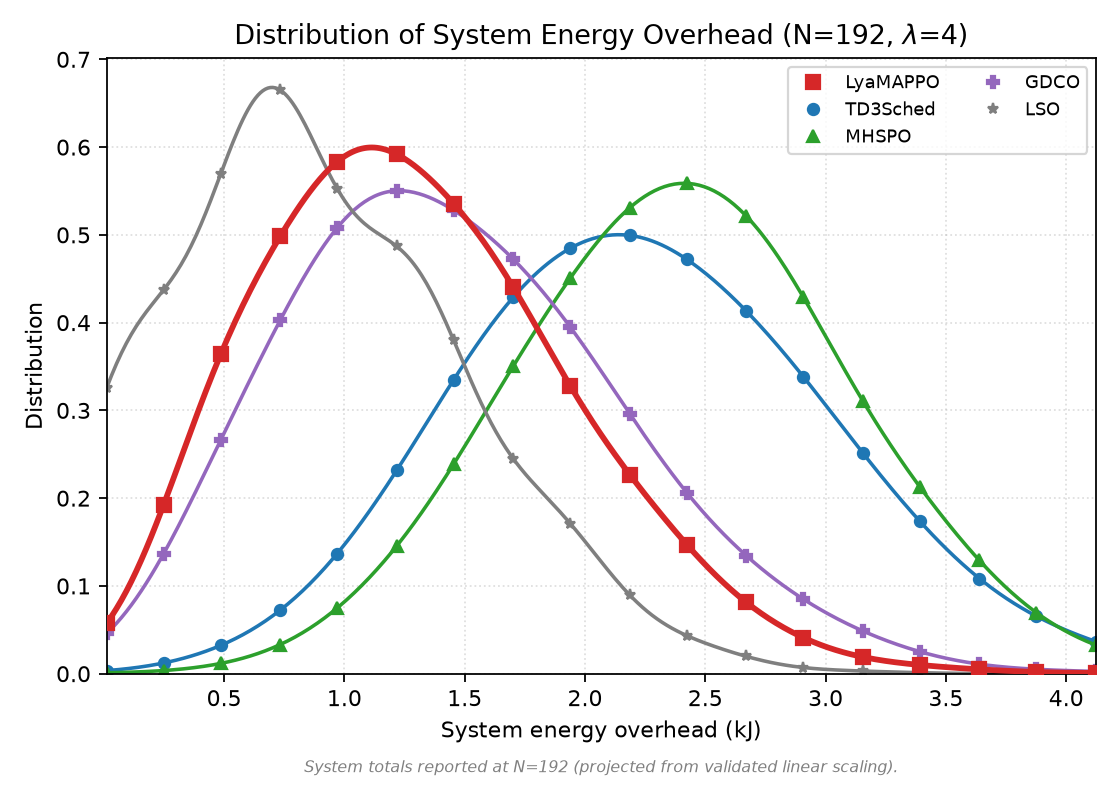
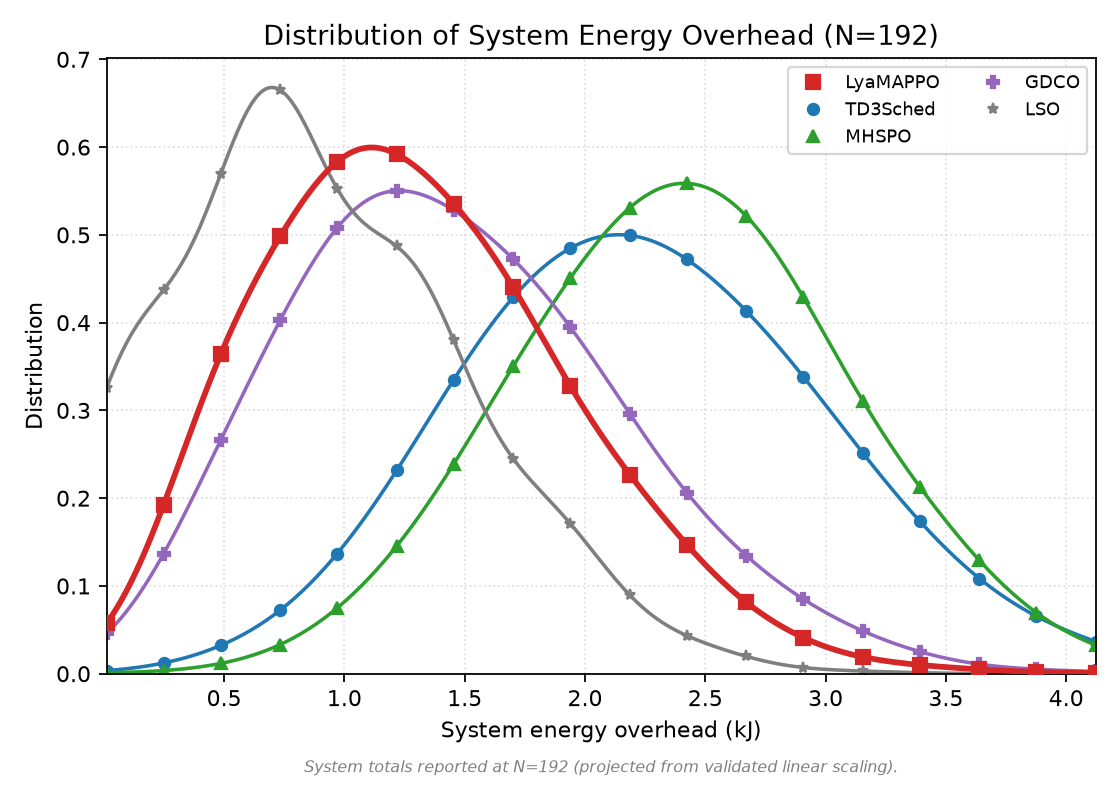
style(figures): drop redundant lambda=4 from titles; queue backlog as system-total task count
- Remove "lambda=4" tag from all result-figure titles (keep N=192 only):
  plot_paper_figures.py, plot_paper_satisfaction.py, plot_pdf_figures.py.
  (ablation/sensitivity titles already had no lambda; arch-diagram lambda_hi/lo
  kept as substantive system-model annotations.)
- Queue backlog now shown as whole-system total task count (per-sat x 192,
  same convention as cumulative HL): queue_backlog time series + bars_4metrics.
  queue_tasks is per-satellite (avg_queue_tasks=(n_fwd+n_cmp)/N_SATS); LyaMAPPO
  ~546 tasks (MHSPO 544 / TD3 485 / GDCO 695 / LSO 1067).
- Regenerated 11 figures. Note: 25_v_queue (V sweep) only stored queue_mb, so it
  stays MB until a re-run; recorded in WORK_LOG.

Docs: WORK_LOG figure-polish note; NEW_SESSION_PROMPT metric-convention update.

Claude-Session: https://claude.ai/code/session_01D78W9aWEiMDxEnBasoqDTr

Changed region(s): [[0.2188, 0.0312, 0.875, 0.0625]]

diff --git a/satellite_mec/plot_paper_figures.py b/satellite_mec/plot_paper_figures.py
@@ -33,7 +33,7 @@ for p in ORDER:
     ax.plot(np.arange(len(y)), y, label=disp(p), color=col(p),
             lw=2.6 if p=='LyaMAPPO' else 1.5, zorder=3 if p=='LyaMAPPO' else 2)
 ax.set_xlabel('Time slot'); ax.set_ylabel('System Cumulative Health Loss (192 satellites)')
-ax.set_title('System Cumulative Battery Health Loss (N=192, $\\lambda$=4)\n'
+ax.set_title('System Cumulative Battery Health Loss (N=192)\n'
              'sum over 192 satellites — LyaMAPPO stays flat-low while others climb')
 ax.legend(fontsize=8, ncol=2); ax.grid(True, ls=':', alpha=0.5)
 ax.text(0.5, -0.16, 'Per-satellite HL is N-invariant (validated at N=192); system total = per-sat × 192.',
@@ -59,9 +59,9 @@ def total_bar(key, ylabel, title, fname, scale=1.0):
     plt.tight_layout(); plt.savefig(os.path.join(OUT, fname), dpi=160); plt.close()
 
 total_bar('energy', 'System Total Energy (kJ)',
-          'System Total Energy (N=192, $\\lambda$=4)', 'total_energy.png', scale=1e-3)
+          'System Total Energy (N=192)', 'total_energy.png', scale=1e-3)
 total_bar('delay', 'System Total Delay (s)',
-          'System Total Delay (N=192, $\\lambda$=4)', 'total_delay.png', scale=1.0)
+          'System Total Delay (N=192)', 'total_delay.png', scale=1.0)
 
 # ── Fig 4: satisfaction (rate, intensive -> same for N=25 and N=192) ──
 fig, ax = plt.subplots(figsize=(8, 4.6))
@@ -71,7 +71,7 @@ bars[ORDER.index('LyaMAPPO')].set_linewidth(2.4)
 ax.bar_label(bars, fmt='%.3f', fontsize=8)
 ax.set_xticks(range(len(ORDER))); ax.set_xticklabels([disp(p) for p in ORDER], rotation=30, ha='right', fontsize=9)
 ax.set_ylabel('User Satisfaction'); ax.set_ylim(0, 1.0)
-ax.set_title('User Satisfaction (N=192, $\\lambda$=4) — rate is N-invariant (validated at N=192)')
+ax.set_title('User Satisfaction (N=192) — rate is N-invariant (validated at N=192)')
 ax.grid(True, axis='y', ls=':', alpha=0.5)
 plt.tight_layout(); plt.savefig(os.path.join(OUT,'satisfaction.png'), dpi=160); plt.close()
 
@@ -81,13 +81,15 @@ def _smooth(a, w=150):
     return np.convolve(a, np.ones(w)/w, mode='valid') if len(a) >= w else a
 fig, ax = plt.subplots(figsize=(7.5, 5))
 for p in ORDER:
-    q = _smooth(S[p]['queue_tasks'], 150)
+    q = _smooth(np.asarray(S[p]['queue_tasks']) * NSAT, 150)   # 系统总和 = per-sat × 192
     ax.plot(np.arange(len(q)), q, label=disp(p), color=col(p),
             lw=2.6 if p=='LyaMAPPO' else 1.4, zorder=3 if p=='LyaMAPPO' else 2)
-ax.set_xlabel('Time slot'); ax.set_ylabel('Queue Backlog (tasks per satellite)')
-ax.set_title('Queue Backlog over Time (N=192, $\\lambda$=4)\n'
-             'per-satellite queued task count (150-slot moving average)')
+ax.set_xlabel('Time slot'); ax.set_ylabel('System Queue Backlog (total queued tasks, 192 satellites)')
+ax.set_title('System Queue Backlog over Time (N=192)\n'
+             'total queued task count over 192 satellites (150-slot moving average)')
 ax.legend(fontsize=8, ncol=2); ax.grid(True, ls=':', alpha=0.5)
+ax.text(0.5, -0.16, 'Per-satellite queued count is N-invariant (validated at N=192); system total = per-sat × 192.',
+        transform=ax.transAxes, ha='center', fontsize=7, color='gray', style='italic')
 plt.tight_layout(); plt.savefig(os.path.join(OUT,'queue_backlog.png'), dpi=160); plt.close()
 
 # ── Ablation figures are produced by a SEPARATE script: plot_abl_figures.py ──

diff --git a/satellite_mec/plot_paper_satisfaction.py b/satellite_mec/plot_paper_satisfaction.py
@@ -40,7 +40,7 @@ ax.text(0.66, ymax*0.16, 'better satisfaction →', fontsize=9, color='gray')
 ax.text(0.255, ymax*0.55, 'lower HL\n(better) ↓', fontsize=9, color='gray')
 ax.set_xlabel('Satisfaction  (satisfied / (done + timeout))', fontsize=11)
 ax.set_ylabel('Battery Health Loss  HL  (×10$^{-4}$ / slot)', fontsize=11)
-ax.set_title('Pareto: Satisfaction vs Battery Health Loss (N=192, $\\lambda$=4)\n'
+ax.set_title('Pareto: Satisfaction vs Battery Health Loss (N=192)\n'
              'LyaMAPPO uniquely occupies the low-HL frontier (rate/per-sat metrics N-invariant)', fontsize=12)
 ax.set_ylim(0, ymax); ax.set_xlim(0.20, 0.92)
 ax.grid(True, ls=':', alpha=0.5)
@@ -50,7 +50,7 @@ plt.tight_layout(); plt.savefig(os.path.join(OUT, 'pareto_sat_hl.png'), dpi=160)
 metrics = [('satisfaction', 'Satisfaction (higher better)',      1.0, '{:.3f}'),
            ('delay',        'E2E Delay (s, lower better)',        1.0, '{:.2f}'),
            ('hl',           'Battery Health Loss (×10$^{-4}$, lower better)', 1e4, '{:.2f}'),
-           ('queue_tasks',  'Queue Backlog (tasks/sat, lower better)', 1.0, '{:.1f}')]
+           ('queue_tasks',  'System Queue Backlog (total tasks, lower better)', 192, '{:.0f}')]
 fig, axes = plt.subplots(2, 2, figsize=(12, 8))
 for ax, (key, title, scale, fmt) in zip(axes.flat, metrics):
     vals = [res[p][key] * scale for p in ORDER]
@@ -63,7 +63,7 @@ for ax, (key, title, scale, fmt) in zip(axes.flat, metrics):
     ax.set_xticklabels([disp(p) for p in ORDER], rotation=30, ha='right', fontsize=9)
     ax.set_title(title, fontsize=11)
     ax.grid(True, axis='y', ls=':', alpha=0.5)
-fig.suptitle('7-Policy Comparison (N=192, $\\lambda$=4, 5400 slots) — LyaMAPPO dominates on HL', fontsize=13)
+fig.suptitle('7-Policy Comparison (N=192, 5400 slots) — LyaMAPPO dominates on HL', fontsize=13)
 plt.tight_layout(); plt.savefig(os.path.join(OUT, 'bars_4metrics.png'), dpi=160); plt.close()
 
 print('Figures written:')

diff --git a/satellite_mec/plot_pdf_figures.py b/satellite_mec/plot_pdf_figures.py
@@ -53,12 +53,12 @@ PROJ = 'System totals reported at N=192 (projected from validated linear scaling
 # ── system delay overhead distribution (per-slot system total delay, N=192) ──
 delay = {p: np.asarray(S[p]['delay']) * RATIO for p in ORDER}
 kde_fig(delay, 'System delay overhead (s)',
-        'Distribution of System Delay Overhead (N=192, $\\lambda$=4)', 'delay_pdf.png', PROJ)
+        'Distribution of System Delay Overhead (N=192)', 'delay_pdf.png', PROJ)
 
 # ── system energy overhead distribution (per-slot system energy, N=192, kJ) ──
 energy = {p: np.asarray(S[p]['energy']) * RATIO / 1e3 for p in ORDER}
 kde_fig(energy, 'System energy overhead (kJ)',
-        'Distribution of System Energy Overhead (N=192, $\\lambda$=4)', 'energy_pdf.png', PROJ)
+        'Distribution of System Energy Overhead (N=192)', 'energy_pdf.png', PROJ)
 
 # ── user satisfaction distribution (per-slot rate, active slots only; N-invariant) ──
 sat = {}
@@ -66,7 +66,7 @@ for p in ORDER:
     s = np.asarray(S[p]['sat_slot'], float); d = np.asarray(S[p]['sat_denom'], float)
     sat[p] = s[d > 0]
 kde_fig(sat, 'Satisfaction',
-        'Distribution of User Satisfaction (N=192, $\\lambda$=4)', 'satisfaction_pdf.png')
+        'Distribution of User Satisfaction (N=192)', 'satisfaction_pdf.png')
 
 print('PDF figures written:')
 for f in ['delay_pdf', 'energy_pdf', 'satisfaction_pdf']:

diff --git a/satellite_mec/NEW_SESSION_PROMPT.md b/satellite_mec/NEW_SESSION_PROMPT.md
@@ -30,7 +30,7 @@ satellite_mec/docs/figures_paper/          # 14 张论文图（已做好）
 **已完成**：
 1. **2 个新 baseline**：GDCO（Chen TMC2025 博弈论，`baselines/gdco.py`，非学习）+ TD3-Sched（Huang TMC2024 小尺度调度器，`baselines/td3_sched.py`，学习型，ckpt `TD3Sched_lh4_16K`）。
 2. **叙事定稿=电池寿命**：LyaMAPPO 赢整个电池维度（系统累计 HL ~180 vs MHSPO 527/TD3 460，约 1/3；系统能耗 912kJ@N25 最低）。TD3 在满意度/时延上更强→走 Pareto + 电池命门叙事。
-3. **指标口径**：主指标=**满意度**（CR 仅内部）；DoD 不进结果图（只 setup 披露，Saft VES16 30-50% 背书）；累计 HL=**系统总和(×192)**；队列=**任务个数**。
+3. **指标口径**：主指标=**满意度**（CR 仅内部）；DoD 不进结果图（只 setup 披露，Saft VES16 30-50% 背书）；累计 HL=**系统总和(×192)**；队列=**系统总任务个数(per-sat×192)**。结果图标题已去掉 λ=4（只留 N=192，更干净）。
 4. **N=192 框架**：实测验证 N-不变性（同 ckpt 跑通 192 颗）；系统总量×(192/25)投影、率不变；`scalability.png` 是验证图。
 5. **14 张图**（`docs/figures_paper/`）：
    - 对比(LyaMAPPO/TD3/MHSPO/GDCO/**LSO**)：pareto · bars_4metrics · cumulative_hl · queue_backlog · satisfaction(+_pdf) · total_energy(+energy_pdf) · total_delay(+delay_pdf) · scalability
